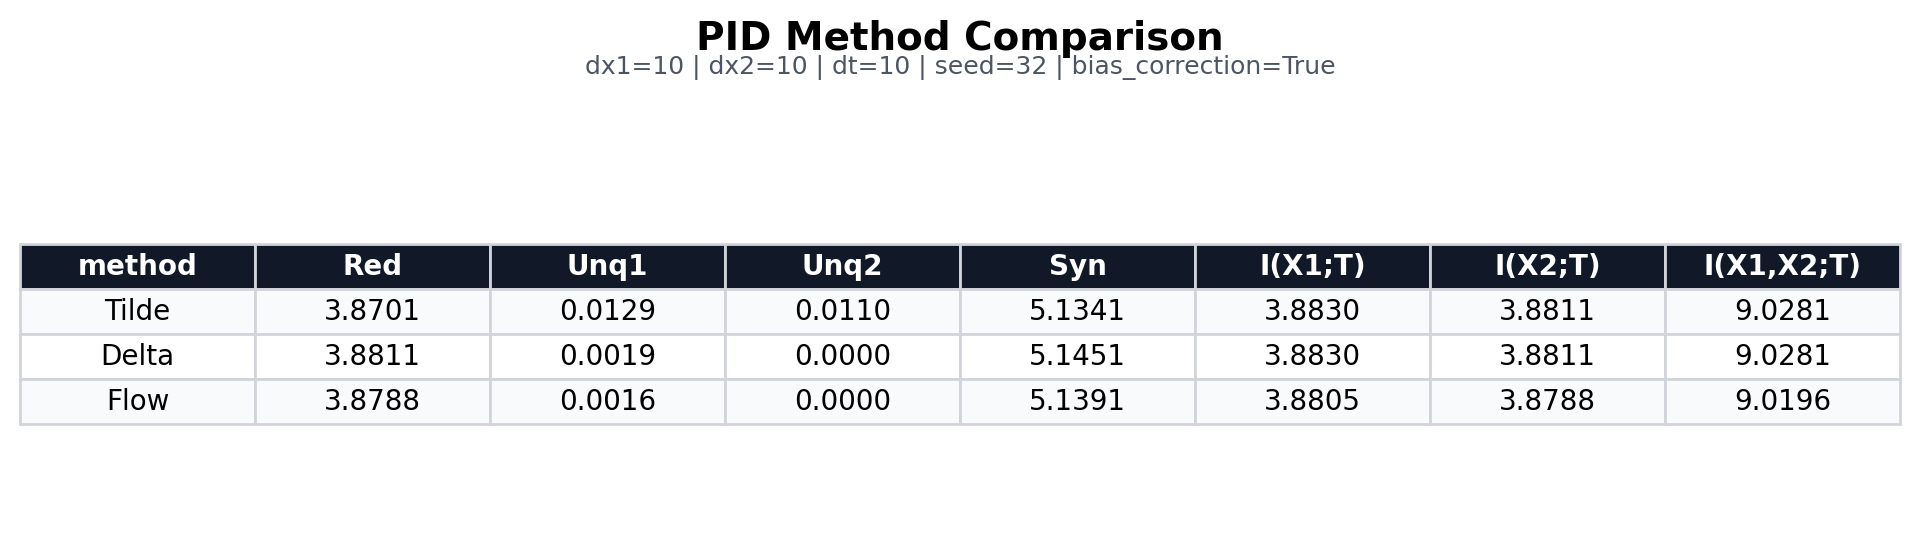
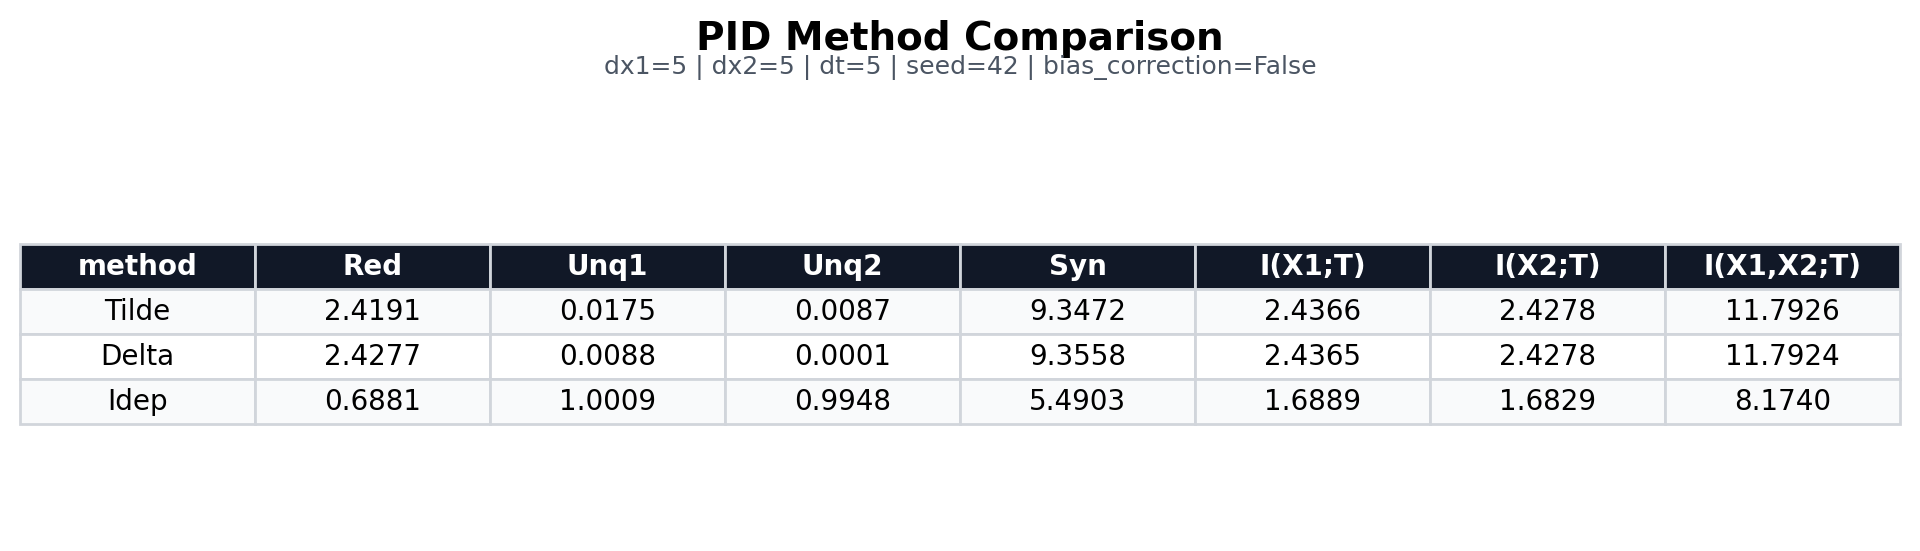
Added DeepDive by Conwell to externals by Conwell

diff --git a/Simulations/Theoretical_Examples/RVs_Story/regular_examples/All_above_zero.py b/Simulations/Theoretical_Examples/RVs_Story/regular_examples/All_above_zero.py
@@ -17,8 +17,8 @@ def all_above_zero_weighted(
     n,
     p,
     noise_std,
-    unique1_weight=3.0,
-    unique2_weight=3.0,
+    unique1_weight=5.0,
+    unique2_weight=5.0,
     redundant_weight=1.0,
     shared_noise_weight=1.0,
 ):
@@ -69,5 +69,9 @@ def all_above_zero_weighted(
 
 
 if __name__ == "__main__":
-    config = load_story_config()
-    save_single_example(config, all_above_zero_weighted, "weighted_p=10_all_above_zero.png", truth_func=None)
+    p_s = [10,20,30,50,100,150,200,500]
+    for p in p_s:
+        config = load_story_config()
+        config["parameters"]["p"] = p
+        print(f"Running all_above_zero_weighted with p={p}...")
+        save_single_example(config, all_above_zero_weighted, f"weighted_unique_informality=5_p={p}_all_above_zero.png", truth_func=None)
